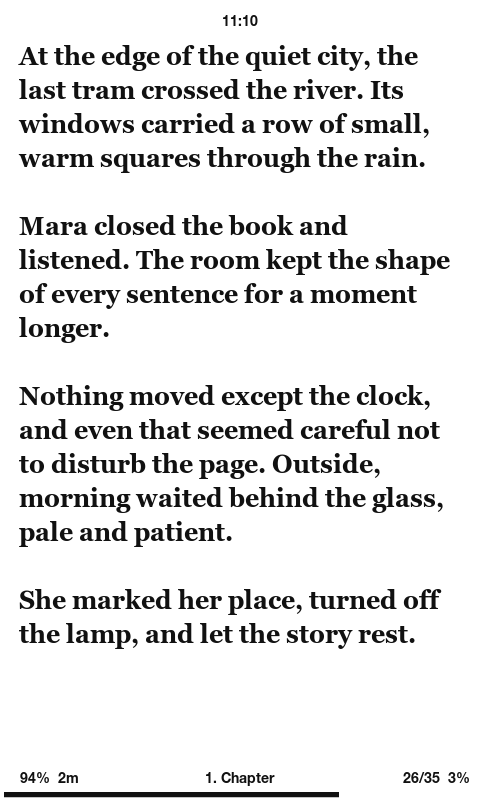
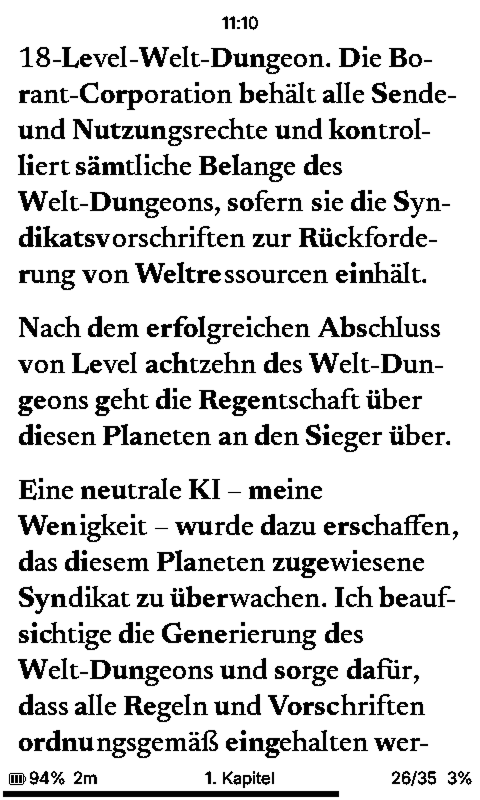
Refine hero ink transitions

Changed region(s): [[0.0, 0.0312, 1.0, 1.0], [0.4688, 0.0, 0.5312, 0.0312]]

diff --git a/site/app.js b/site/app.js
@@ -3,6 +3,7 @@ const state = {
   mode: "page-overlay",
   query: "",
   heroSlideTimer: null,
+  heroTransitionId: 0,
   lastHeroAsset: {
     custom: null,
     "page-overlay": null,
@@ -10,6 +11,8 @@ const state = {
 };
 
 const HERO_SLIDE_INTERVAL_MS = 5000;
+const HERO_INK_DURATION_MS = 650;
+const HERO_OVERLAY_PAUSE_MS = 900;
 
 const modeLabels = {
   custom: "Custom",
@@ -62,21 +65,62 @@ function nextHeroAsset(mode) {
   return asset;
 }
 
-function showHeroAsset(asset, mode) {
+function wait(milliseconds) {
+  return new Promise((resolve) => window.setTimeout(resolve, milliseconds));
+}
+
+async function showHeroAsset(asset, mode) {
   if (!asset) return;
 
+  const transitionId = ++state.heroTransitionId;
   const preview = document.querySelector("#hero-preview");
   const screen = document.querySelector("#hero-screen");
-  screen.className = `device-screen mode-${mode}`;
-  preview.classList.remove("is-changing");
-  void preview.offsetWidth;
-  preview.src = asset.previewUrl;
-  preview.alt = `${asset.label} ${modeLabels[mode]} preview`;
-  preview.classList.add("is-changing");
   document.querySelector("#preview-mode-label").textContent = modeLabels[mode];
   document.querySelector("#preview-behavior").textContent = mode === "custom"
     ? "slideshow · random on every sleep"
     : "slideshow · the last page stays visible";
+
+  const applyAsset = () => {
+    screen.className = `device-screen mode-${mode}`;
+    preview.src = asset.previewUrl;
+    preview.alt = `${asset.label} ${modeLabels[mode]} preview`;
+  };
+
+  if (window.matchMedia?.("(prefers-reduced-motion: reduce)").matches) {
+    preview.classList.remove("is-inking-in", "is-inking-out", "is-ink-hidden");
+    applyAsset();
+    return;
+  }
+
+  const alreadyHidden = preview.classList.contains("is-ink-hidden");
+  preview.classList.remove("is-inking-in", "is-inking-out");
+
+  if (!alreadyHidden) {
+    void preview.offsetWidth;
+    preview.classList.add("is-inking-out");
+    await wait(HERO_INK_DURATION_MS);
+    if (transitionId !== state.heroTransitionId) return;
+  }
+
+  preview.classList.remove("is-inking-in", "is-inking-out");
+  preview.classList.add("is-ink-hidden");
+  applyAsset();
+
+  const imageReady = preview.decode?.().catch(() => undefined) || Promise.resolve();
+  const textOnlyPause = mode === "page-overlay"
+    ? wait(HERO_OVERLAY_PAUSE_MS)
+    : Promise.resolve();
+  await Promise.all([imageReady, textOnlyPause]);
+  if (transitionId !== state.heroTransitionId) return;
+
+  preview.classList.remove("is-ink-hidden");
+  void preview.offsetWidth;
+  preview.classList.add("is-inking-in");
+  await wait(HERO_INK_DURATION_MS);
+
+  if (transitionId === state.heroTransitionId) {
+    preview.classList.remove("is-inking-in");
+  }
 }
 
 function showRandomHeroAsset(mode = state.mode) {
@@ -103,7 +147,7 @@ function pageSample() {
   const sample = element("div", "page-sample");
   sample.setAttribute("aria-hidden", "true");
   const image = element("img");
-  image.src = "./media/book-page.png";
+  image.src = "./media/book-page.png?v=2";
   image.alt = "";
   image.loading = "lazy";
   image.decoding = "async";

diff --git a/site/index.html b/site/index.html
@@ -63,7 +63,7 @@
             <img class="device-frame" src="./media/device.png" alt="" aria-hidden="true" draggable="false">
             <div class="device-screen mode-page-overlay" id="hero-screen">
               <div class="page-sample" aria-hidden="true">
-                <img src="./media/book-page.png" alt="" draggable="false">
+                <img src="./media/book-page.png?v=2" alt="" draggable="false">
               </div>
               <img id="hero-preview" src="./assets/x4/page-overlays/overlay-001-world.png" alt="Preview of the Page Overlay collection">
             </div>
@@ -176,7 +176,7 @@
             <img class="device-frame" src="./media/device.png" alt="" aria-hidden="true" draggable="false">
             <div class="device-screen mode-custom" id="dialog-screen">
               <div class="page-sample" aria-hidden="true">
-                <img src="./media/book-page.png" alt="" draggable="false">
+                <img src="./media/book-page.png?v=2" alt="" draggable="false">
               </div>
               <img id="dialog-image" src="./thumbs/custom/custom-001-world.png" alt="">
             </div>

diff --git a/site/styles.css b/site/styles.css
@@ -337,13 +337,31 @@ a:focus-visible {
   display: block;
 }
 
-#hero-preview.is-changing {
-  animation: hero-preview-in 240ms ease-out;
+#hero-preview.is-inking-out {
+  animation: hero-ink-out 650ms steps(4, end) both;
 }
 
-@keyframes hero-preview-in {
+#hero-preview.is-inking-in {
+  animation: hero-ink-in 650ms steps(4, end) both;
+}
+
+#hero-preview.is-ink-hidden {
+  opacity: 0;
+}
+
+@keyframes hero-ink-out {
   from {
-    opacity: 0.15;
+    opacity: 1;
+  }
+
+  to {
+    opacity: 0;
+  }
+}
+
+@keyframes hero-ink-in {
+  from {
+    opacity: 0;
   }
 
   to {
